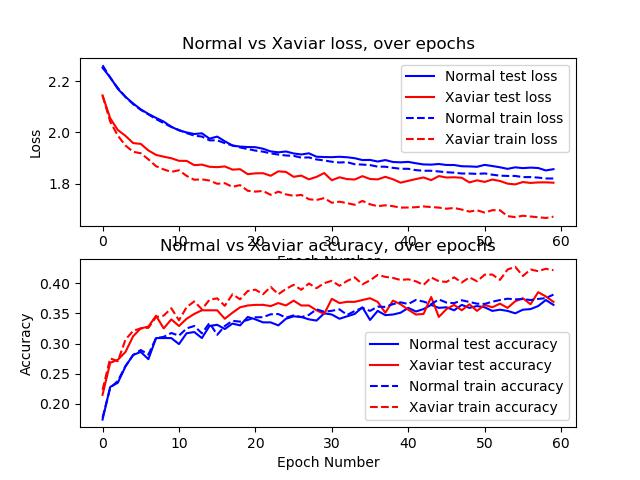
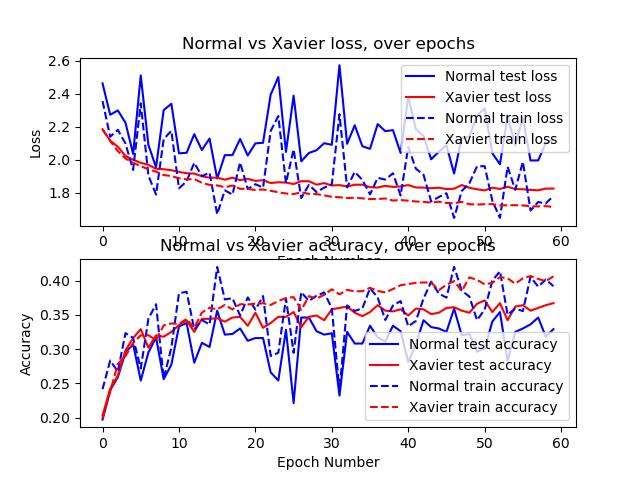
Merged

diff --git a/Ex1/main.py b/Ex1/main.py
@@ -10,9 +10,10 @@ from networks import FCN, CNN
 import tqdm
 from itertools import cycle
 from sklearn.decomposition import PCA
-
+import torchvision
 device = 'cuda' if torch.cuda.is_available() else 'cpu'
 
+best_params = {'lr': 5e-3, 'momentum': 0.9, 'std': 0.1}
 
 def load_data(path):
     with open(path, 'rb') as f:
@@ -22,19 +23,31 @@ def load_data(path):
 
 
 def get_10percent_cifar():
-    batch = np.random.choice(range(1, 6), 1)[0]
-    data = load_data(CIFAR_PATH + f'data_batch_{batch}')
-    train_idx = np.random.choice(len(data[b'labels']), 5000, replace=False)
-    labels = np.array(data[b'labels'])[train_idx]
-    samples = np.array(data[b'data'])[train_idx] / 255
+    train_data = torchvision.datasets.CIFAR10(root='./cifar_data', train=True,
+                                            download=True)
+    test_data = torchvision.datasets.CIFAR10(root='./cifar_data', train=False,
+                                           download=True)
+
+
+    train_idx = np.random.choice(np.arange(len(train_data.data)), 5000, replace=False)
+    samples = np.array(train_data.data)[train_idx] / 255
+    labels = np.array(train_data.targets)[train_idx]
     samples = samples.reshape(-1, C, H, W)
 
-    test_data = load_data(CIFAR_PATH + "test_batch")
-    test_idx = np.random.choice(len(test_data[b'labels']), 1000, replace=False)
-    test_labels = np.array(test_data[b"labels"])[test_idx]
-    test_samples = np.array(test_data[b"data"])[test_idx] / 255
+    test_idx = np.random.choice(np.arange(len(test_data.data)), 1000, replace=False)
+    test_labels = np.array(test_data.targets)[test_idx]
+    test_samples = np.array(test_data.data)[test_idx] / 255
     test_samples = test_samples.reshape((-1, C, H, W))
     return (samples, labels), (test_samples, test_labels)
+
+
+def get_data_for_net():
+    (train_X, train_y), (test_X, test_y) = get_10percent_cifar()
+    train_X = torch.tensor(train_X, dtype=torch.float32).to(device)
+    train_y = torch.tensor(train_y, dtype=torch.long).to(device)
+    test_X = torch.tensor(test_X, dtype=torch.float32).to(device)
+    test_y = torch.tensor(test_y, dtype=torch.long).to(device)
+    return (train_X, train_y), (test_X, test_y)
 
 
 def train_svm():
@@ -54,7 +67,6 @@ def train_svm():
     y_test_pred = rbf.predict(test_X)
     print("RBF Accuracy: Train: {} - Test: {}".format(np.sum(y_train_pred == train_y) / len(train_y), np.sum(y_test_pred == test_y) / len(test_y)))
 
-
 def calc_accuracy_and_loss(net, test_X, test_y, criterion):
     net.eval()
     outputs = net(test_X)
@@ -67,13 +79,9 @@ def calc_accuracy_and_loss(net, test_X, test_y, criterion):
     return accuracy, loss.detach().numpy().reshape(1)[0]
 
 
-def train_nn(net, criterion=nn.CrossEntropyLoss(), lr=0.001, momentum=0.9, std=0.1, number_of_epochs=50, weight_decay=0,
+def train_nn(data, net, criterion=nn.CrossEntropyLoss(), lr=0.001, momentum=0.9, std=0.1, number_of_epochs=50, weight_decay=0,
              optimizer='sgd', init='normal', use_pca=False):
-    (train_X, train_y), (test_X, test_y) = get_10percent_cifar()
-    train_X = torch.tensor(train_X, dtype=torch.float32).to(device)
-    train_y = torch.tensor(train_y, dtype=torch.long).to(device)
-    test_X = torch.tensor(test_X, dtype=torch.float32).to(device)
-    test_y = torch.tensor(test_y, dtype=torch.long).to(device)
+    (train_X, train_y), (test_X, test_y) = data
     if use_pca:
         pca = PCA()
         pca.fit(torch.flatten(train_X, 1))
@@ -113,38 +121,38 @@ def train_nn(net, criterion=nn.CrossEntropyLoss(), lr=0.001, momentum=0.9, std=0
             loss = criterion(outputs, labels)
             loss.backward()
             optimizer.step()
-
+        test_stats = calc_accuracy_and_loss(net, test_X, test_y, criterion)
+        test_loss.append(test_stats[1])
+        test_acc.append(test_stats[0])
         train_stats = calc_accuracy_and_loss(net, train_X, train_y, criterion)
         train_loss.append(train_stats[1])
         train_acc.append(train_stats[0])
 
-        net.change_dropout_p(0)
-        test_stats = calc_accuracy_and_loss(net, test_X, test_y, criterion)
-        test_loss.append(test_stats[1])
-        test_acc.append(test_stats[0])
-
     return (test_loss, test_acc), (train_loss, train_acc)
 
 
-def grid_search(network=FCN, optimizer='sgd', momentums=[0.8, 0.85, 0.9, 0.95]):
+def grid_search(network=FCN, optimizer='sgd'):
     results = {}
     min_loss = 10000000
+    epoch_count = 20
     min_params = ()
-    for lr in [5e-5, 1e-4, 5e-4, 1e-3, 5e-3]:
-        for momentum in momentums:
-            for std in [0.001, 0.01, 0.1, 0.5, 1]:
-                net = network()
-                test_stats, train_stats = train_nn(net=net, criterion=nn.CrossEntropyLoss(), lr=lr, momentum=momentum,
-                                                   std=std, number_of_epochs=10, optimizer=optimizer)
+    data = get_data_for_net()
+    for lr in [1e-4, 5e-4, 1e-3, 2e-3, 5e-3]:
+        for momentum in [0.7, 0.8, 0.8, 0.9, 0.95]:
+            for std in [0.001, 0.01, 0.1, 0.5]:
+                cur_net = net()
+                test_stats, train_stats = train_nn(data=data, net=cur_net, criterion=nn.CrossEntropyLoss(), lr=lr, momentum=momentum, std=std, number_of_epochs=epoch_count, optimizer=optimizer)
                 loss, acc = test_stats
                 loss = loss[-1]
                 acc = acc[-1]
                 results[(lr, momentum, std)] = (acc, loss)
-                print(f"The trio {lr}, {momentum}, {std} got a loss/acc: {loss}/{acc}")
                 if loss < min_loss:
                     min_params = (lr, momentum, std)
                     min_loss = loss
-    print(results)
+    print(f"Best: {min_loss} made by {min_params}")
+    for k, v in results.items():
+        print("{}: {}/{:.2f}".format(k, v[0], v[1]))
+
     print(f"Best: {min_loss} made by {min_params}")
 
 
@@ -186,48 +194,64 @@ def plot_two_compared_configuration_stats(stat1, stat2, name1, name2, epoch_coun
     plt.ylabel("Accuracy")
 
 
-def compare_sgd_adam(network, epoch_count=25, sgd_lr=5e-3, sgd_momentum=0.95, sgd_std=0.01, adam_lr=5e-3,
-                     adam_momentum=0.95, adam_std=0.01):
+def compare_sgd_adam(network, epoch_count=25, sgd_params=best_params, adam_params=best_params):
     # Q2.2
     # Run SGD and ADAM and plot accuracies & loss.
+    sgd_lr = sgd_params['lr']
+    sgd_momentum = sgd_params['momentum']
+    sgd_std = sgd_params['std']
+    adam_lr = adam_params['lr']
+    adam_momentum = adam_params['momentum']
+    adam_std = adam_params['std']
+
+    data = get_data_for_net()
+
     network_sgd = network()
-    sgd_stats = train_nn(net=network_sgd, criterion=nn.CrossEntropyLoss(), lr=sgd_lr, momentum=sgd_momentum,
+    sgd_stats = train_nn(data=data, net=network_sgd, criterion=nn.CrossEntropyLoss(), lr=sgd_lr, momentum=sgd_momentum,
                          std=sgd_std, number_of_epochs=epoch_count, optimizer='sgd')
     network_adam = network()
-    adam_stats = train_nn(net=network_adam, criterion=nn.CrossEntropyLoss(), lr=adam_lr, momentum=adam_momentum,
+    adam_stats = train_nn(data=data, net=network_adam, criterion=nn.CrossEntropyLoss(), lr=adam_lr, momentum=adam_momentum,
                           std=adam_std, number_of_epochs=epoch_count, optimizer='adam')
     plot_two_compared_configuration_stats(sgd_stats, adam_stats, 'SGD', 'Adam', epoch_count)
-    plt.savefig(f"{network_sgd.__class__.__name__}_SGDvsAdam.jpg")
+    plt.savefig(f"{network.__name__}_SGDvsAdam.jpg")
 
 
-def xavier_init(network, epoch_count=25, lr=5e-3, momentum=0.95, std=0.01):
+def xavier_init(network, epoch_count=25, params=best_params):
     # Q2.3
     # Run SGD with std init and Xavier init and plot accuracies & loss.
+    lr = params['lr']
+    momentum = params['momentum']
+    std = params['std']
+    data = get_data_for_net()
     net = network()
-    normal_stats = train_nn(net=net, criterion=nn.CrossEntropyLoss(), lr=lr, momentum=momentum,
+    normal_stats = train_nn(data=data, net=net, criterion=nn.CrossEntropyLoss(), lr=lr, momentum=momentum,
                             std=std, number_of_epochs=epoch_count, optimizer='sgd', init='normal')
     net_xavier = network()
-    xavier_stats = train_nn(net=net_xavier, criterion=nn.CrossEntropyLoss(), lr=lr, momentum=momentum,
+    xavier_stats = train_nn(data=data, net=net_xavier, criterion=nn.CrossEntropyLoss(), lr=lr, momentum=momentum,
                             number_of_epochs=epoch_count, optimizer='sgd', init='xavier')
-    plot_two_compared_configuration_stats(normal_stats, xavier_stats, 'Normal', 'Xaviar', epoch_count)
-    plt.savefig(f"{net.__class__.__name__}_NormalvsXavier.jpg")
+    plot_two_compared_configuration_stats(normal_stats, xavier_stats, 'Normal', 'Xavier', epoch_count)
+    plt.savefig(f"{network.__name__}_NormalvsXavier.jpg")
 
 
-def regularization_train(network, epoch_count=25, lr=5e-3, momentum=0.95, std=0.01, weights = [0, 1, 10], dropouts = [0, 0.25, 0.5]):
+def regularization_train(network, epoch_count=25, params=best_params):
     losses = []
     accs = []
     labels = []
     options = []
+    lr = params['lr']
+    momentum = params['momentum']
+    std = params['std']
+    data = get_data_for_net()
 
+    weights = [0, 1]
+    dropouts = [0, 0.1, 0.25, 0.4]
     # options = plt.get_cmap('hsv', len(weights) * len(dropouts))
-    colors = cycle('brgmc')
-    cur_net = network()
+    colors = cycle('brgmcyk')
     for weight in weights:
         for dropout in dropouts:
             cur_net = network(dropout=dropout)
-            test_stats, train_stats = train_nn(net=cur_net, criterion=nn.CrossEntropyLoss(), lr=lr, momentum=momentum,
-                                               std=std, number_of_epochs=epoch_count, optimizer='sgd', init='normal',
-                                               weight_decay=weight)
+            test_stats, train_stats = train_nn(data=data, net=cur_net, criterion=nn.CrossEntropyLoss(), lr=lr, momentum=momentum,
+                     number_of_epochs=epoch_count, optimizer='sgd', init='normal', weight_decay=weight, std=std)
             losses.append(test_stats[0])
             accs.append(test_stats[1])
             losses.append(train_stats[0])
@@ -238,40 +262,50 @@ def regularization_train(network, epoch_count=25, lr=5e-3, momentum=0.95, std=0.
             labels.append("Test Weight decay={}, dropout p={}".format(weight, dropout))
             labels.append("Train Weight decay={}, dropout p={}".format(weight, dropout))
     plt.figure()
-    plt.subplot(211)
+    # plt.subplot(211)
     draw_plot(losses, labels, options,
               "Regularization test loss over Epochs\nwith different configurations",
               "Epoch Count", "Loss")
-    plt.subplot(212)
+    # plt.subplot(212)
+    plt.figure()
     draw_plot(accs, labels, options,
               "Regularization test accuracy over Epochs\nwith different configurations",
               "Epoch Count", "Accuracy")
 
     plt.savefig(f"{cur_net.__class__.__name__}_Regularization.jpg")
 
+def preprocessing_train(network, epoch_count=25, params=best_params):
+    data = get_data_for_net()
+    lr = params['lr']
+    momentum = params['momentum']
+    std = params['std']
 
-def preprocessing_train(network, epoch_count=25, lr=5e-3, momentum=0.95, std=0.01):
     pca_network = network()
-    pca_stats = train_nn(net=pca_network, criterion=nn.CrossEntropyLoss(), lr=lr, momentum=momentum, std=std,
+    pca_stats = train_nn(data=data, net=pca_network, criterion=nn.CrossEntropyLoss(), lr=lr, momentum=momentum, std=std,
                          number_of_epochs=epoch_count, optimizer='sgd', use_pca=True)
     no_pca_network = network()
-    no_pca_stats = train_nn(net=no_pca_network, criterion=nn.CrossEntropyLoss(), lr=lr, momentum=momentum, std=std,
+    no_pca_stats = train_nn(data=data, net=no_pca_network, criterion=nn.CrossEntropyLoss(), lr=lr, momentum=momentum, std=std,
                             number_of_epochs=epoch_count,optimizer='sgd', use_pca=False)
     plot_two_compared_configuration_stats(pca_stats, no_pca_stats, 'PCA', 'no PCA', epoch_count)
     plt.savefig(f"{pca_network.__class__.__name__}_PCAvsNoPCA.jpg")
 
 
-def width_train(network, epoch_count=25):
+def width_train(network, epoch_count=25, params=best_params):
+    lr = params['lr']
+    momentum = params['momentum']
+    std = params['std']
+    data = get_data_for_net()
     losses = []
     accs = []
     labels = []
     options = []
 
+    net_name = network.__name__
     colors = cycle('brgmc')
     for i in [6, 10, 12]:
         width = 2 ** i
         cur_net = network(hidden_width=width)
-        test_stats, train_stats = train_nn(net=cur_net, criterion=nn.CrossEntropyLoss(), lr=5e-3, momentum=0.95, std=0.01,
+        test_stats, train_stats = train_nn(data=data, net=cur_net, criterion=nn.CrossEntropyLoss(), lr=lr, momentum=momentum, std=std,
                             number_of_epochs=epoch_count, optimizer='sgd', init='normal')
         losses.append(test_stats[0])
         accs.append(test_stats[1])
@@ -284,19 +318,27 @@ def width_train(network, epoch_count=25):
         labels.append("Train Width {}".format(width))
 
     plt.figure(figsize=(8, 5))
-    plt.subplot(211)
+    # plt.subplot(211)
     draw_plot(losses, labels, options,
               "Network test loss over Epochs\nWith different hidden layer width",
               "Epoch Count", "Loss")
-    plt.subplot(212)
+    plt.savefig("{}_width_loss.jpg".format(net_name))
+
+    plt.figure(figsize=(8, 5))
+    # plt.subplot(212)
     draw_plot(accs, labels, options,
               "Network test Accuracy over Epochs\nWith different hidden layer width",
               "Epoch Count", "Accuracy")
 
-    plt.savefig("FCN_Width2.jpg")
+    plt.savefig("{}_width_acc.jpg".format(net_name))
 
 
-def depth_train(network, epoch_count=25):
+def depth_train(network, epoch_count=25, params=best_params):
+    lr = params['lr']
+    momentum = params['momentum']
+    std = params['std']
+    data = get_data_for_net()
+    net_name = network.__name__
     losses = []
     accs = []
     labels = []
@@ -304,9 +346,8 @@ def depth_train(network, epoch_count=25):
     colors = cycle('brgmc')
     for depth in [3, 4, 10]:
         cur_net = network(depth=depth)
-        test_stats, train_stats = train_nn(net=cur_net, criterion=nn.CrossEntropyLoss(), lr=5e-3, momentum=0.95,
-                             number_of_epochs=epoch_count, optimizer='sgd', init='normal',
-                             std=0.01)
+        test_stats, train_stats = train_nn(data=data, net=cur_net, criterion=nn.CrossEntropyLoss(), lr=lr, momentum=momentum,
+                                           std=std, number_of_epochs=epoch_count, optimizer='sgd', init='normal')
         losses.append(test_stats[0])
         losses.append(train_stats[0])
         accs.append(test_stats[1])
@@ -318,20 +359,24 @@ def depth_train(network, epoch_count=25):
         labels.append("Train Depth {}".format(depth))
 
     plt.figure(figsize=(8, 5))
-    plt.subplot(211)
+    # plt.subplot(211)
     draw_plot(losses, labels, options,
               "Network Loss over Epochs\nWith different network depth",
               "Epoch Count", "Loss")
-    plt.subplot(212)
+    # plt.subplot(212)
+    plt.savefig("{}_depth_loss.jpg".format(net_name))
+
+    plt.figure(figsize=(8, 5))
     draw_plot(accs, labels, options,
               "Network Accuracy over Epochs\nWith different network depth",
               "Epoch Count", "Accuracy")
 
-    plt.savefig("FCN_Depth2.jpg")
+    plt.savefig("{}_depth_acc.jpg".format(net_name))
 
 
 def question_2():
-    # compare_sgd_adam(FCN, 60, adam_lr=1e-3)
+    # grid_search(FCN)
+    # compare_sgd_adam(FCN, 60)
     # xavier_init(FCN, 60)
     # regularization_train(FCN, 30)
     width_train(FCN, 60)
@@ -339,7 +384,7 @@ def question_2():
 
 
 def question_3():
-    grid_search(CNN, momentums=[0.5, 0.6, 0.7, 0.8])
+    grid_search(CNN)
     # compare_sgd_adam(CNN, 60, sgd_lr=5e-3, sgd_momentum=0.8, sgd_std=0.1, adam_lr=5e-4, adam_momentum=0.8, adam_std=0.1)
     # xavier_init(CNN, 60)
     # regularization_train(CNN, 30, lr=5e-3, momentum=0.8, std=0.1, weights=[1e-4, 1e-3, 1e-2])
@@ -349,16 +394,6 @@ def question_3():
 
 
 if __name__ == "__main__":
-    # train_svm()
-    # grid_search(CNN, optimizer='adam')
-    # compare_sgd_adam()
-    # xavier_init()
-    # regularization_train()
-    # width_train()
-    # xavier_init(network=CNN, lr=5e-3, momentum=0.8, std=0.1)
-    # depth_train()
-    # network = CNN()
-    # compare_sgd_adam(network, 5e-3, 0.8, 0.1)
-    # depth_train(FCN, 25)
+    #train_svm()
     # question_2()
     question_3()

diff --git a/Ex1/networks.py b/Ex1/networks.py
@@ -7,6 +7,7 @@ from consts import *
 
 
 class FCN(nn.Module):
+    NAME = "FCN"
     def __init__(self, hidden_width=HIDDEN_WIDTH_FCN,
                  depth=DEPTH_FCN,
                  dropout=DROPOUT_FCN):
@@ -46,9 +47,10 @@ class FCN(nn.Module):
 
     def forward(self, X):
         X = torch.flatten(X, 1)
-        self.dropout_layer(X)
         for layer in self.FC_layers:
+            X = self.dropout_layer(X)
             X = F.relu(layer(X))
+        X = self.dropout_layer(X)
         result = self.out(X)
         return result
 
